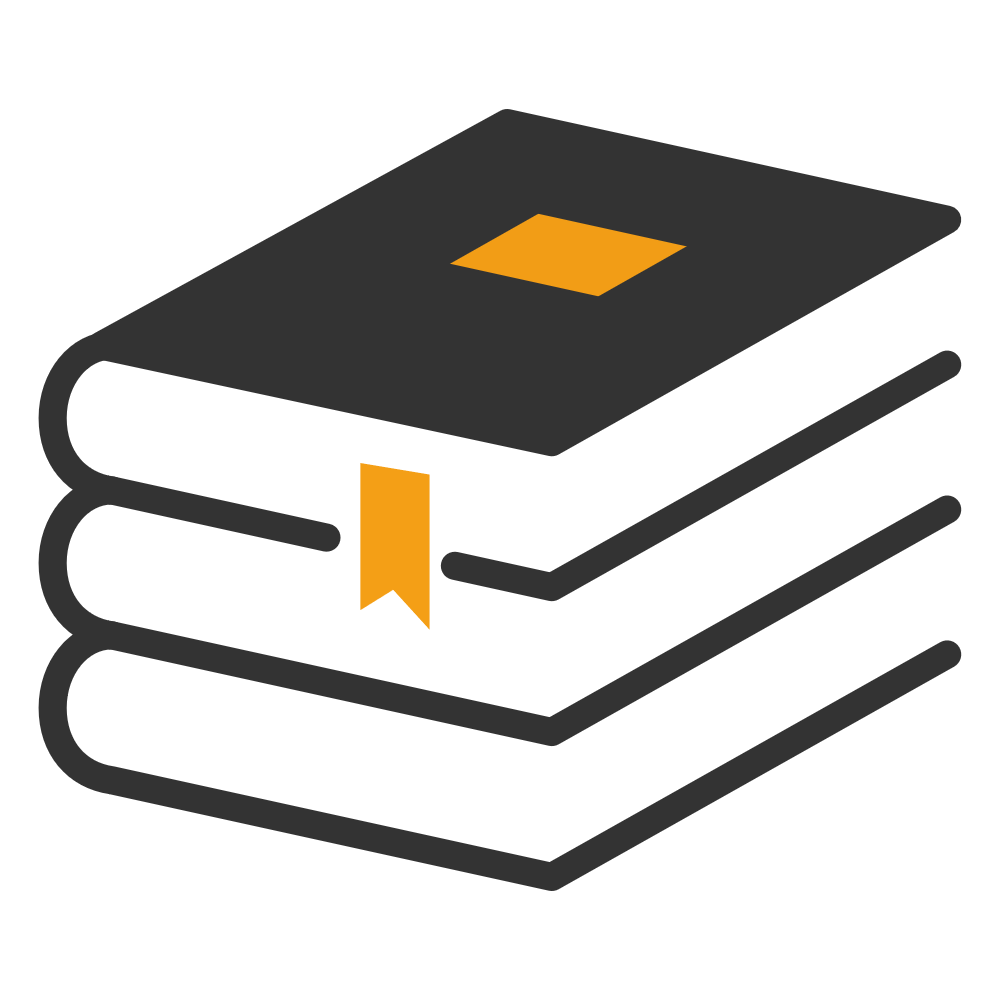
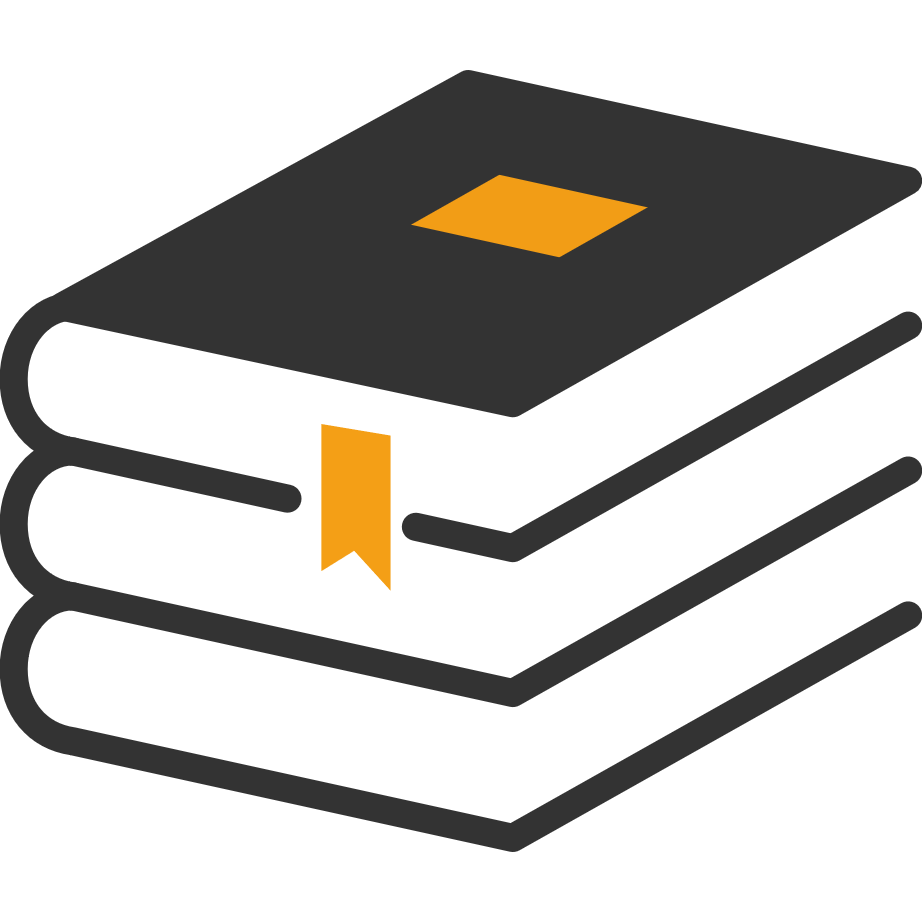
Change Searchbar
Changes the searchbar to an ion-input component.
Properly centers the input text.
Adds an X button to clear text.
Re-adds the loading svg.
Small changes to logo that removes whitespace on the right and left edges in order to perfect centering.

diff --git a/src/pages/home/home.html b/src/pages/home/home.html
@@ -1,11 +1,13 @@
 <ion-content padding text-center>
-  <img src="assets/imgs/techbooks.png" alt="TechBooks">
+  <img id="logo" src="assets/imgs/techbooks.png" alt="TechBooks">
     <form action=".">
-      <ion-input text-center id="input" #q (keyup.enter)="searchFunction(q.value)" autocorrect="on" type="search" clearInput></ion-input>
+      <ion-item style="padding-left: 0">
+          <ion-input id="input" #q (keyup.enter)="searchFunction(q.value)" placeholder="Search here..." autocorrect="on" type="search" clearInput></ion-input>
+      </ion-item>
     </form>
 
   <div *ngIf="loading == true">
-    <img class="loading" src="assets/imgs/puff.svg" alt="loading">
+    <img class="loading" src="assets/imgs/loading.svg" alt="">
   </div>
   <div *ngIf="noResults == true">
     <h3 class="no-results">Sorry! No results for this search.</h3>

diff --git a/src/pages/home/home.scss b/src/pages/home/home.scss
@@ -1,24 +1,25 @@
 page-home {
 
-    img {
-        max-height: 250px;
+    #logo {
+        height: 250px;
+        max-height: 50vw;
     }
     h2 {
         margin: 3px;
     } 
     #input {
         width: 100%;
-        font-size: 20px;
-        -moz-border-radius: 50px;
-        -webkit-border-radius: 50px;
-        border-radius: 10px;
-        border: 1px solid color($colors, primary);
-        margin-bottom: 10px;
+        font-size: 25px;
+        padding-left: 35px;
     }
    
     .loading {
         margin-top: 100px;
     }
+
+    .text-input {
+        text-align: center;
+      }
 
     div h3 {
         margin-top: 10px;

diff --git a/src/pages/cards/cards.html b/src/pages/cards/cards.html
@@ -11,7 +11,7 @@
   <img src="assets/imgs/techbooks.png" alt="TechBooks">
 
   <div *ngIf="loading == true">
-    <img class="loading" src="assets/imgs/puff.svg" alt="loading">
+    <img class="loading" src="assets/imgs/loading.svg" alt="loading">
   </div>
   <div *ngIf="noResults == true">
     <h3 class="no-results" style="margin-top: 10px;">Sorry! No results for this search.</h3>
